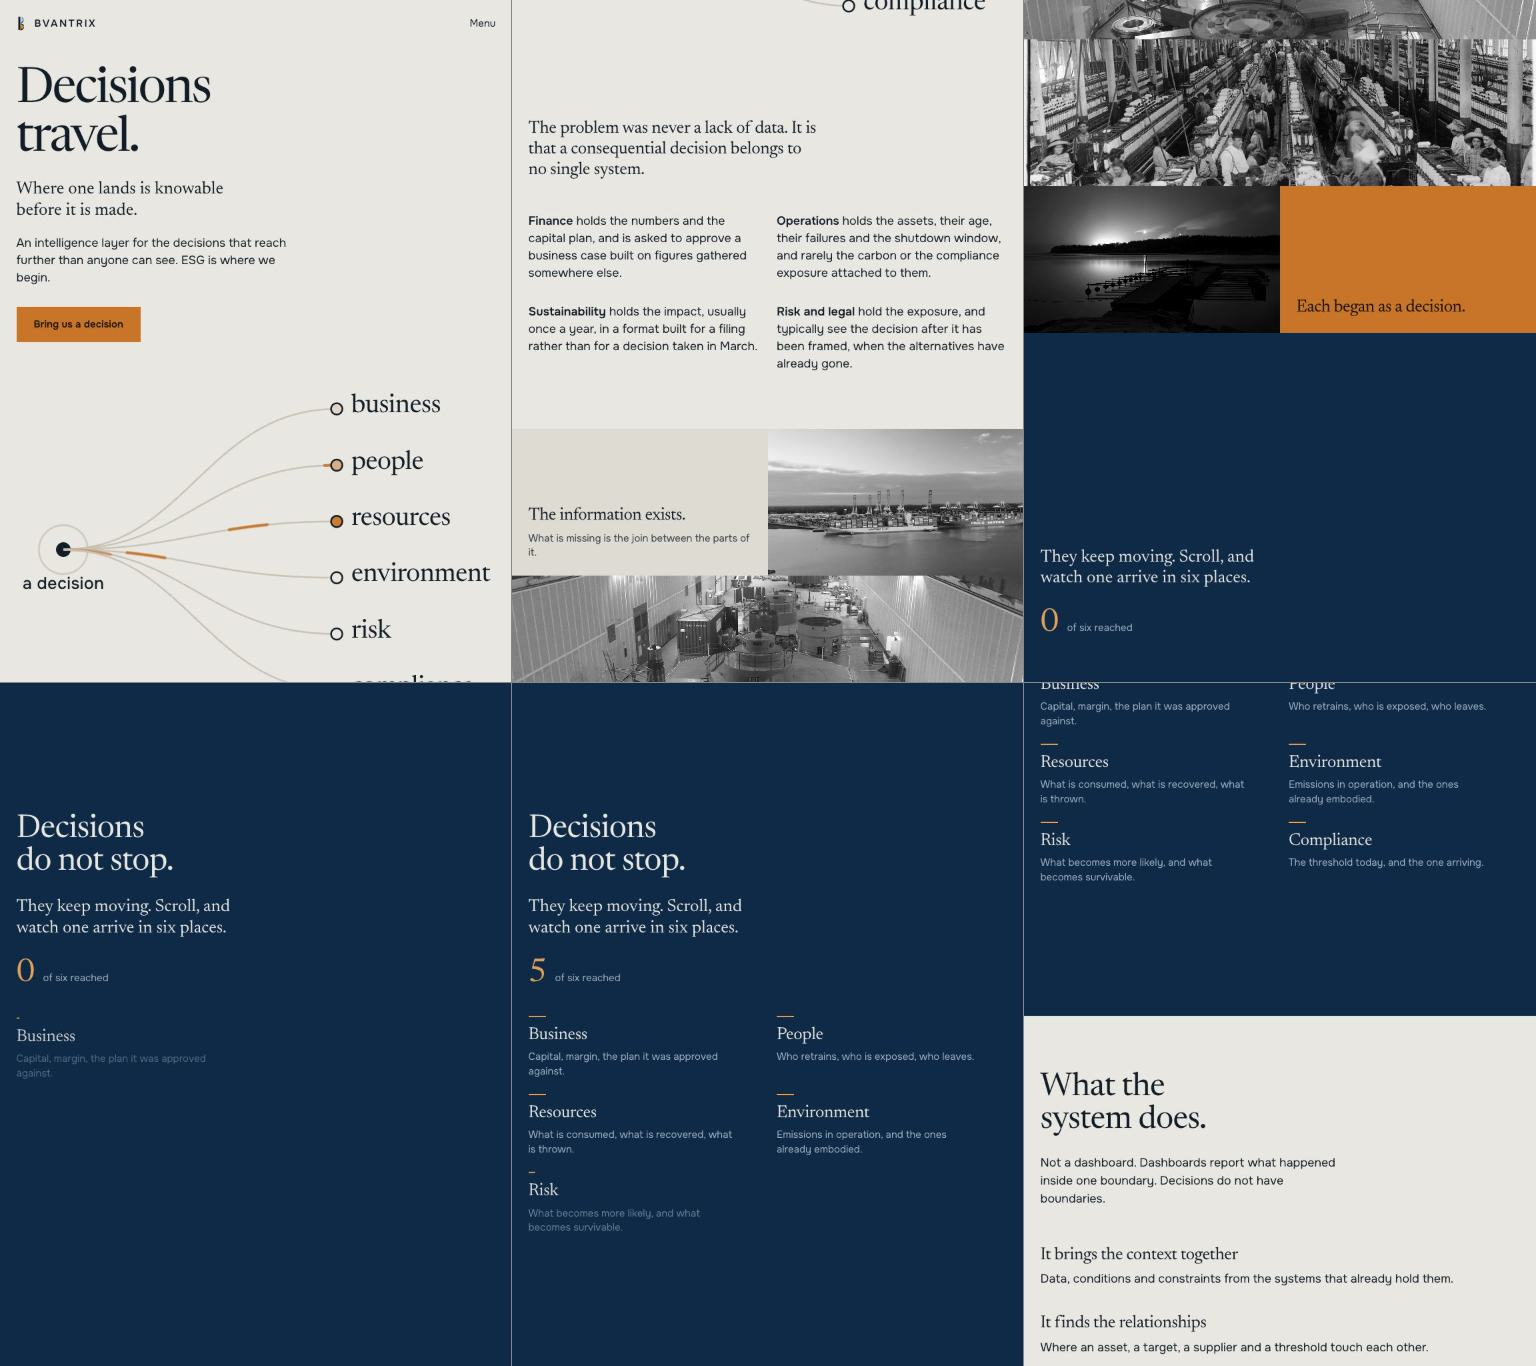
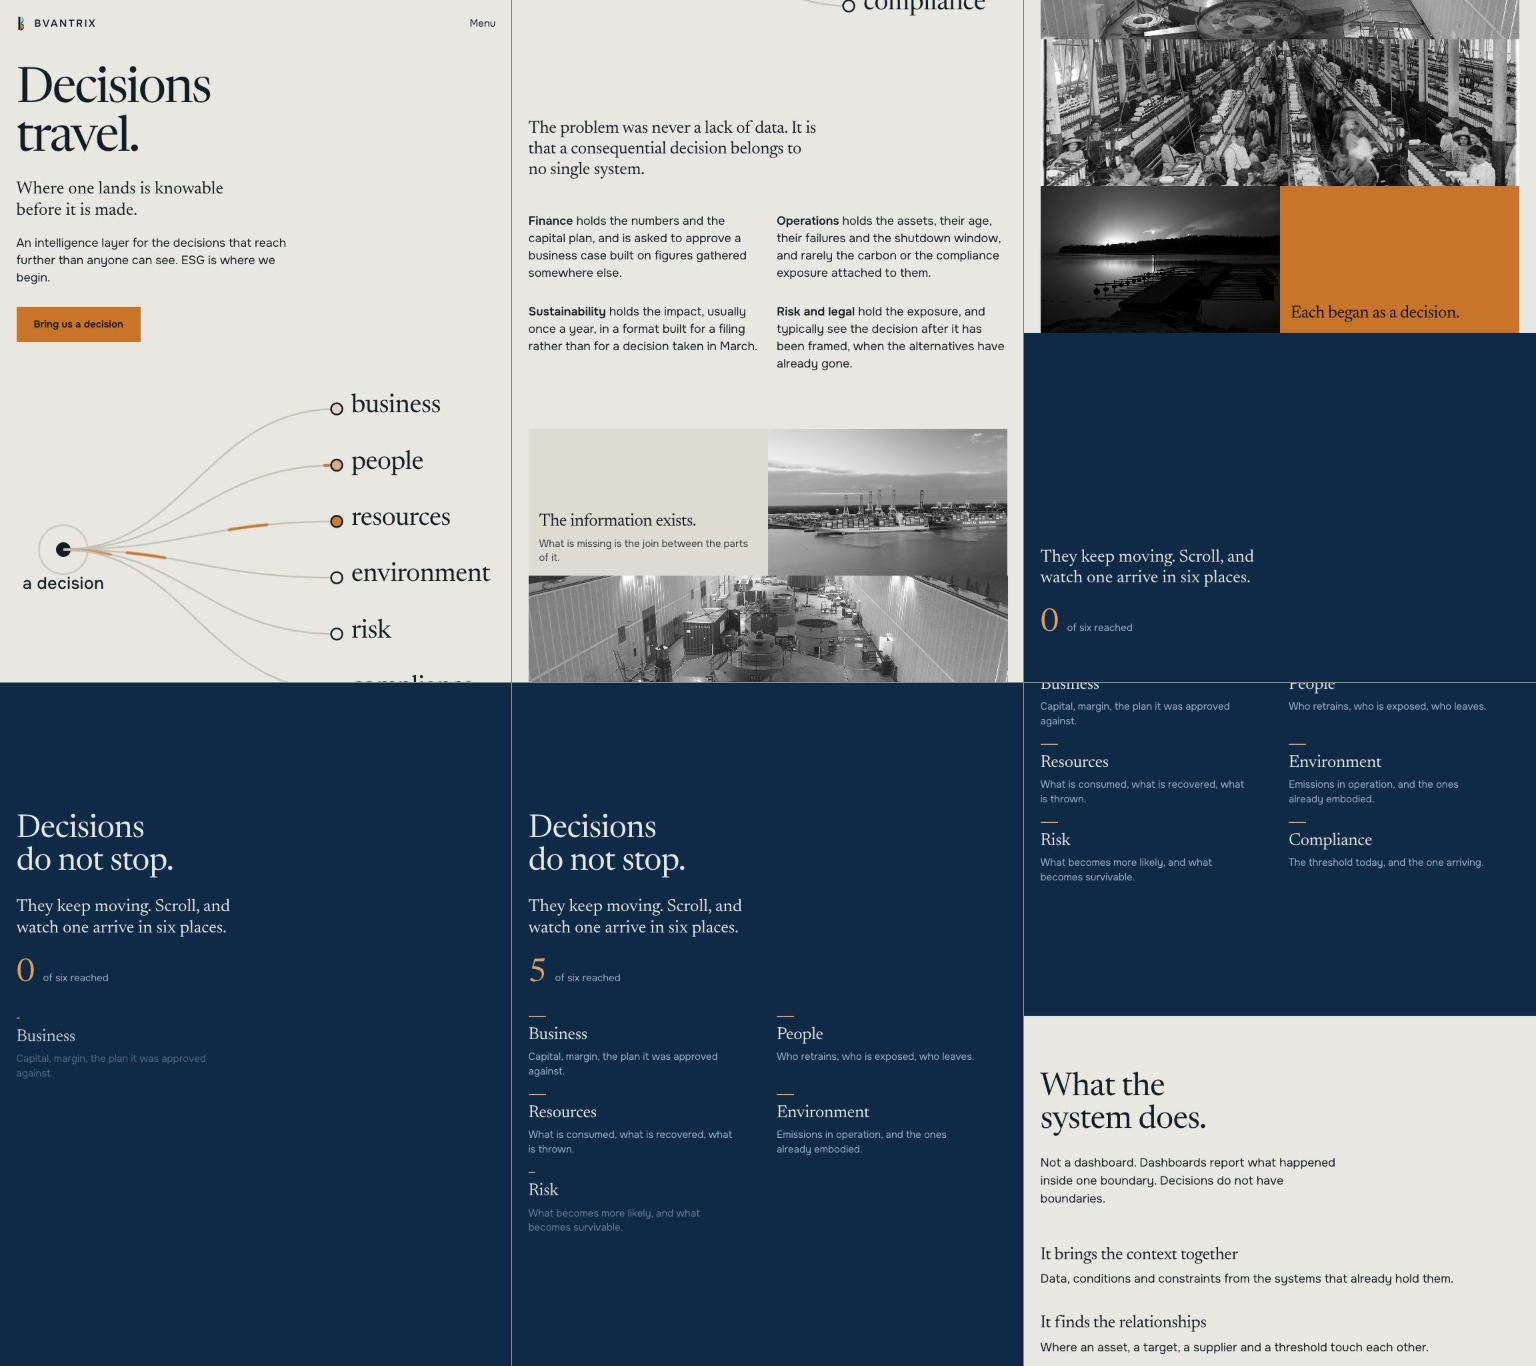
Hold the mosaic in the page column
It was full-bleed by design -- a printed plate interrupting the text
pages. That reads up to about 1500px, where the overhang is only the
page margin, but on a 2000px window the text sits in the middle 1480
and the pictures jut 253px past it on both sides, so it stopped
looking like a plate and started looking like a section that had
escaped the layout. It now takes the same max-width, centring and
margin as every other section: measured flush with the body text to
0.0px at 1440px and 2000px.

Two things followed from that.

The tiles lost 20px of width, their words wrapped one line further,
and the text tile needed 180px inside a fixed 140px row -- its first
line was clipped away on a phone. Rows are now a minimum rather than a
fixed height.

That alone broke the photographs: an image spanning two columns has an
intrinsic height of 457px, and in an auto row it drove the row to that
instead of being cropped to it. Capping them at the row floor keeps
the pictures on the row while still letting a text tile grow.

The tile padding was a second copy of the page margin, which only made
sense while the mosaic had none of its own.

Measured at 2000, 1440, 375 and 320px: edges flush with the body text,
no tile clipped, rows 270px on desktop and growing to 172/193px only
where the words need it, no horizontal scroll.

Changed region(s): [[0.6562, 0.0, 1.0, 0.246], [0.3125, 0.3075, 0.6875, 0.5227]]

diff --git a/css/style.css b/css/style.css
@@ -333,19 +333,31 @@ p { margin: 0; }
    -------------------------------------------------------------------------- */
 
 .mosaic {
+  /* Held in the same column as the text pages. It was full-bleed, which read as
+     a printed plate up to about 1500px but on a wide monitor left the pictures
+     jutting 250px past every other edge on the page. */
+  max-width: var(--page);
+  margin-inline: auto;
+  padding-inline: var(--margin);
   display: grid;
   grid-template-columns: repeat(4, 1fr);
-  grid-auto-rows: clamp(150px, 19vw, 280px);
+  /* A minimum, not a fixed height: a text tile whose words wrap one line
+     further must be able to grow rather than have its first line clipped.
+     The photographs are capped at --row so their own intrinsic height cannot
+     drive the row instead -- a spanning image would otherwise open it to 457px. */
+  --row: clamp(150px, 19vw, 280px);
+  grid-auto-rows: minmax(var(--row), auto);
 }
 .mosaic > * { overflow: hidden; }
-.mosaic img { width: 100%; height: 100%; object-fit: cover; }
+.mosaic img { width: 100%; height: 100%; max-height: var(--row); object-fit: cover; }
 .mosaic .wide { grid-column: span 2; }
 .mosaic .tall { grid-row: span 2; }
 
 .tile {
   background: var(--field); color: var(--field-ink);
-  /* the mosaic runs to the edges, but its words keep the page's margin */
-  padding: var(--margin);
+  /* the mosaic is held in the page column now, so a tile needs breathing room,
+     not a second copy of the page margin */
+  padding: clamp(16px, 1.8vw, 32px);
   display: flex; flex-direction: column; justify-content: flex-end;
 }
 .tile--teal { background: var(--field-2); }
@@ -685,7 +697,7 @@ html:not(.js) .tel-code select { font: inherit; border: 0; background: transpare
   }
   .masthead-words { grid-column: 1; max-width: none; }
   /* on a phone the panel stops covering its own photograph and sits under it */
-  .mosaic { grid-template-columns: repeat(2, 1fr); grid-auto-rows: clamp(140px, 34vw, 220px); }
+  .mosaic { grid-template-columns: repeat(2, 1fr); --row: clamp(140px, 34vw, 220px); }
   .mosaic .wide { grid-column: span 2; }
   .mosaic .tall { grid-row: span 1; }
 }
@@ -791,7 +803,7 @@ html:not(.js) .tel-code select { font: inherit; border: 0; background: transpare
 }
 
 /* the one moving picture: a port at work, paused when motion is unwelcome */
-.mosaic .clip { width: 100%; height: 100%; object-fit: cover; }
+.mosaic .clip { width: 100%; height: 100%; max-height: var(--row); object-fit: cover; }
 
 
 /* --------------------------------------------------------------------------

diff --git a/index.html b/index.html
@@ -25,7 +25,7 @@
 <link rel="preconnect" href="https://fonts.gstatic.com" crossorigin>
 <link rel="stylesheet" href="https://fonts.googleapis.com/css2?family=Newsreader:opsz,wght@6..72,300;6..72,400;6..72,500&family=Onest:wght@400;500;600&display=swap">
 <link rel="stylesheet" href="assets/scenes/stage.css">
-<link rel="stylesheet" href="css/style.css?v=10.8">
+<link rel="stylesheet" href="css/style.css?v=11.1">
 </head>
 <body>
 
